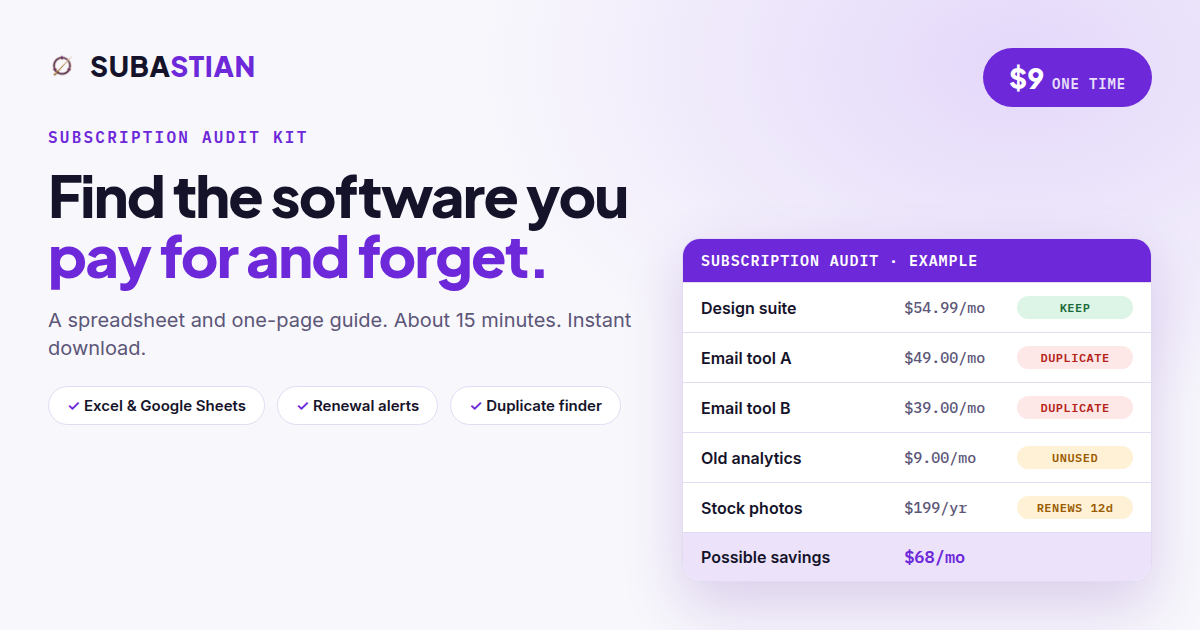
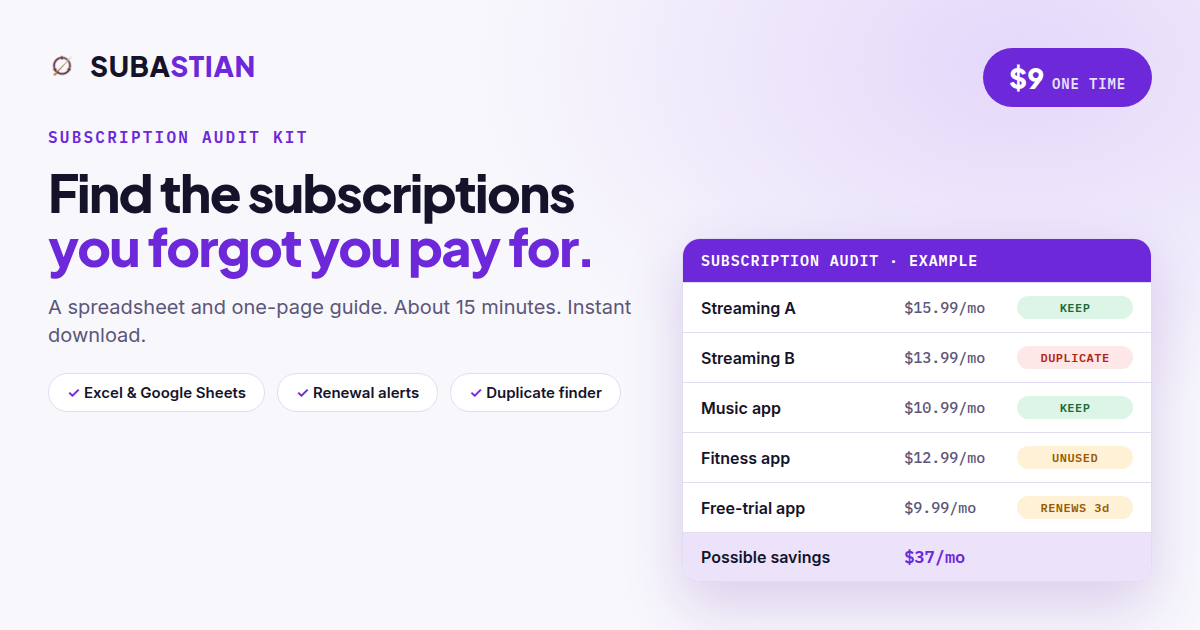
Rewrite Audit Kit page and images for everyday subscribers
Claude-Session: https://claude.ai/code/session_019sXTCsmVP4FG1kHYEtrpfb

diff --git a/audit-kit/index.html b/audit-kit/index.html
@@ -3,13 +3,13 @@
 <head>
 <meta charset="utf-8">
 <meta name="viewport" content="width=device-width, initial-scale=1">
-<title>Subscription Audit Kit: Find Unused SaaS Subscriptions | Subastian</title>
-<meta name="description" content="A spreadsheet and one-page guide that finds unused and duplicate software subscriptions in about 15 minutes. One-time purchase, instant download.">
+<title>Subscription Audit Kit: Find Subscriptions You Forgot | Subastian</title>
+<meta name="description" content="A spreadsheet and one-page guide that finds the subscriptions you forgot, duplicates and renewals in about 15 minutes. $9 one time, instant download.">
 
 <link rel="canonical" href="https://subastian.us/audit-kit/">
 <meta name="author" content="Subastian, LLC">
 <meta property="og:type" content="website"><meta property="og:site_name" content="Subastian">
-<meta property="og:title" content="Subscription Audit Kit: find the software you pay for and forget"><meta property="og:description" content="A spreadsheet and one-page guide to find unused and duplicate subscriptions in 15 minutes.">
+<meta property="og:title" content="Subscription Audit Kit: find the subscriptions you forgot you pay for"><meta property="og:description" content="A spreadsheet and one-page guide to find forgotten, duplicate and renewing subscriptions in 15 minutes.">
 <meta property="og:image" content="https://subastian.us/audit-kit/cover-wide.png">
 <link rel="icon" href="/emblem.png" type="image/png">
 <link rel="preconnect" href="https://fonts.googleapis.com">
@@ -118,14 +118,14 @@
 <main>
   <div class="wrap">
     <p class="eyebrow">Subscription Audit Kit</p>
-    <h1>Find the software you pay for and forget.</h1>
+    <h1>Find the subscriptions you forgot you pay for.</h1>
     <p class="updated">A spreadsheet and one-page guide. About 15 minutes. Instant download.</p>
 
     <section>
       <div class="cards">
         <div class="card">
           <h3>$<span class="js-price">9</span> &middot; one time</h3>
-          <p>List every tool once. Monthly and annual cost, renewal alerts, overlap, idle tools and savings all calculate for you.</p>
+          <p>List what you pay for once. Monthly and annual cost, renewal alerts, overlap, unused subscriptions and savings all calculate for you.</p>
           <a class="btn-cta js-checkout" href="/#waitlist">Get the Audit Kit</a>
           <p class="hint js-fine">Secure checkout. Full refund within 60 days, no questions asked.</p>
         </div>
@@ -135,8 +135,8 @@
     <section>
       <h2>What's in the kit</h2>
       <ul class="perks">
-        <li><strong>Audit spreadsheet.</strong> Totals your monthly and yearly software spend as you list your tools.</li>
-        <li><strong>Built-in flags</strong> for duplicate tools, subscriptions nobody uses, and renewals in the next 90 days.</li>
+        <li><strong>Audit spreadsheet.</strong> Totals your monthly and yearly spending as you list your subscriptions.</li>
+        <li><strong>Built-in flags</strong> for duplicates, subscriptions you no longer use, and renewals in the next 90 days.</li>
         <li><strong>15-minute guide.</strong> Where subscriptions hide, a keep / cancel / review test, and when to set renewal reminders.</li>
         <li>Works in Excel and Google Sheets.</li>
       </ul>
@@ -144,7 +144,7 @@
 
     <section>
       <h2>Who it's for</h2>
-      <p>Affiliate marketers, agencies and small teams who pay for a lot of tools and suspect some are wasted. It runs on your own device, and we never see what you enter.</p>
+      <p>Anyone who pays for streaming, apps, memberships or software and suspects some of it is wasted. It runs on your own device, and we never see what you enter.</p>
     </section>
 
     <section>
